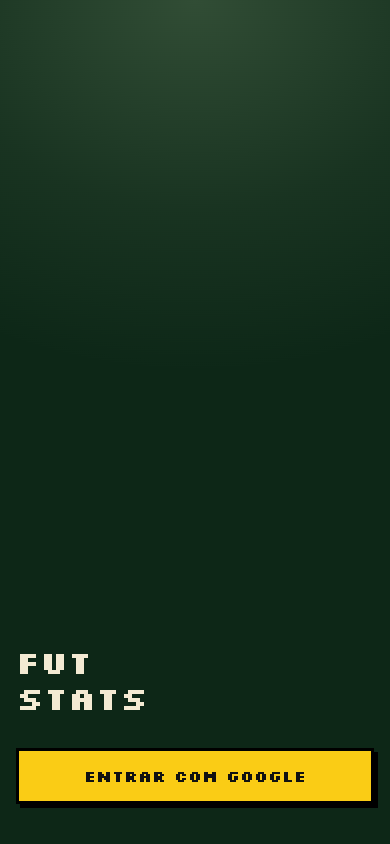
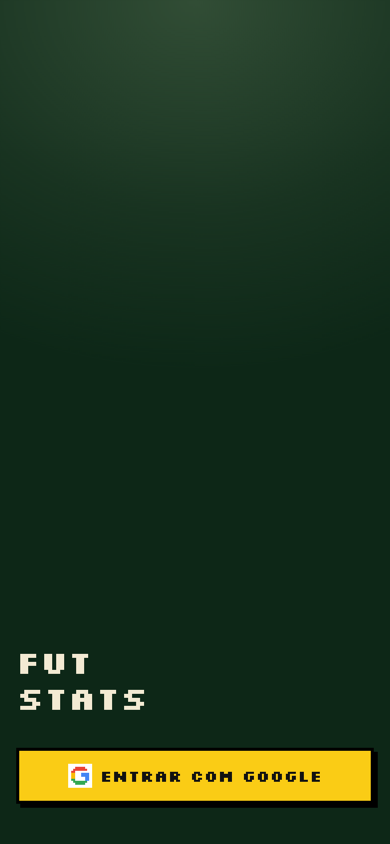
feat(web): marca do Google em pixel no botão Entrar com Google

diff --git a/apps/web/src/components/ui/button.tsx b/apps/web/src/components/ui/button.tsx
@@ -1,4 +1,4 @@
-import type { AnchorHTMLAttributes, ButtonHTMLAttributes } from 'react';
+import type { AnchorHTMLAttributes, ButtonHTMLAttributes, ReactNode } from 'react';
 import { cn } from '../../lib/cn';
 import { Icon, Spinner, type IconName } from './icons';
 import { PixelText } from './pixel-text';
@@ -61,12 +61,14 @@ function buttonClasses({
 function Content({
   label,
   icon,
+  mark,
   variant,
   loading,
   disabled,
 }: {
   label: string;
   icon?: IconName;
+  mark?: ReactNode;
   variant: ButtonVariant;
   loading?: boolean;
   disabled?: boolean;
@@ -80,7 +82,9 @@ function Content({
         <Icon name="lock" size={16} />
       ) : icon ? (
         <Icon name={icon} size={18} className={cn('shrink-0', iconColor)} />
-      ) : null}
+      ) : (
+        mark
+      )}
       <PixelText>{label}</PixelText>
     </>
   );
@@ -131,12 +135,18 @@ export function Button({
 }
 
 type ButtonLinkProps = Omit<AnchorHTMLAttributes<HTMLAnchorElement>, 'children'> &
-  Omit<ButtonStyleOptions, 'disabled'> & { label: string; icon?: IconName };
+  Omit<ButtonStyleOptions, 'disabled'> & {
+    label: string;
+    icon?: IconName;
+    /** Marca que não é ícone de traço, antes do rótulo (ex.: <GoogleMark />). */
+    mark?: ReactNode;
+  };
 
 /** Botão que navega com recarga de página (ex.: /api/auth/google). Para rota interna, use o Link do router. */
 export function ButtonLink({
   label,
   icon,
+  mark,
   variant = 'primary',
   size,
   block,
@@ -145,7 +155,7 @@ export function ButtonLink({
 }: ButtonLinkProps) {
   return (
     <a className={buttonClasses({ variant, size, block, className })} {...rest}>
-      <Content label={label} icon={icon} variant={variant} />
+      <Content label={label} icon={icon} mark={mark} variant={variant} />
     </a>
   );
 }

diff --git a/apps/web/src/components/ui/google-mark.tsx b/apps/web/src/components/ui/google-mark.tsx
@@ -1,0 +1,58 @@
+/**
+ * "G" do Google em pixel art: grade 9x9 com traço de 2, como os dígitos pixel, nas 4 cores da marca.
+ * Fica num quadrado branco porque o amarelo do G sumiria sobre a tecla amarela.
+ */
+const G = [
+  '..RRRRR..',
+  '.RRRRRRR.',
+  'RR.......',
+  'YY...BBBB',
+  'YY...BBBB',
+  'YY.....BB',
+  'GG.....BB',
+  '.GGGGGGG.',
+  '..GGGGG..',
+];
+
+const COLORS: Record<string, string> = {
+  R: '#ea4335',
+  Y: '#fbbc05',
+  G: '#34a853',
+  B: '#4285f4',
+};
+
+/** Um retângulo por sequência de pixels da mesma cor numa linha, agrupados por cor. */
+function paths() {
+  const byColor = new Map<string, string[]>();
+  G.forEach((line, y) => {
+    let x = 0;
+    while (x < line.length) {
+      const c = line[x]!;
+      let end = x;
+      while (line[end] === c) end++;
+      if (COLORS[c]) {
+        const list = byColor.get(c) ?? [];
+        list.push(`M${x} ${y}h${end - x}v1h-${end - x}z`);
+        byColor.set(c, list);
+      }
+      x = end;
+    }
+  });
+  return [...byColor].map(([c, d]) => <path key={c} d={d.join('')} fill={COLORS[c]} />);
+}
+
+const PATHS = paths();
+
+/** Marca do Google para o botão de entrar. Decorativa: o rótulo do botão já diz "com Google". */
+export function GoogleMark() {
+  return (
+    <span
+      aria-hidden
+      className="inline-flex size-6 shrink-0 items-center justify-center bg-team-white"
+    >
+      <svg width="18" height="18" viewBox="0 0 9 9" shapeRendering="crispEdges">
+        {PATHS}
+      </svg>
+    </span>
+  );
+}

diff --git a/apps/web/src/pages/sign-in.tsx b/apps/web/src/pages/sign-in.tsx
@@ -1,5 +1,6 @@
 import { Navigate } from 'react-router';
 import { ButtonLink } from '../components/ui/button';
+import { GoogleMark } from '../components/ui/google-mark';
 import { PixelText } from '../components/ui/pixel-text';
 import { useSession } from '../features/session/use-session';
 import { LOGIN_URL } from '../lib/api';
@@ -16,7 +17,7 @@ export function SignInPage() {
         <PixelText size={32}>Fut</PixelText>
         <PixelText size={32}>Stats</PixelText>
       </h1>
-      <ButtonLink href={LOGIN_URL} label="Entrar com Google" block />
+      <ButtonLink href={LOGIN_URL} label="Entrar com Google" mark={<GoogleMark />} block />
     </main>
   );
 }
